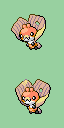
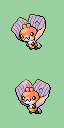
Couple reshinies, dex tweaks

diff --git a/src/pokemon.c b/src/pokemon.c
@@ -128,11 +128,11 @@ static const u16 sHoennToNationalOrder[HOENN_DEX_COUNT - 1] =
     HOENN_TO_NATIONAL(ARON),
     HOENN_TO_NATIONAL(LAIRON),
     HOENN_TO_NATIONAL(AGGRON),
-    HOENN_TO_NATIONAL(VOLTORB),
-    HOENN_TO_NATIONAL(ELECTRODE),
-    HOENN_TO_NATIONAL(PICHU),
-    HOENN_TO_NATIONAL(PIKACHU),
-    HOENN_TO_NATIONAL(RAICHU),
+    /* HOENN_TO_NATIONAL(VOLTORB), */
+    /* HOENN_TO_NATIONAL(ELECTRODE), */
+    /* HOENN_TO_NATIONAL(PICHU), */
+    /* HOENN_TO_NATIONAL(PIKACHU), */
+    /* HOENN_TO_NATIONAL(RAICHU), */
     HOENN_TO_NATIONAL(KOTORA),
     HOENN_TO_NATIONAL(RAITORA),
     HOENN_TO_NATIONAL(SEWADDLE_TOKUAN),
@@ -140,9 +140,9 @@ static const u16 sHoennToNationalOrder[HOENN_DEX_COUNT - 1] =
     HOENN_TO_NATIONAL(LEAVANNY_TOKUAN),
     HOENN_TO_NATIONAL(JOLTIK),
     HOENN_TO_NATIONAL(GALVANTULA),
-    HOENN_TO_NATIONAL(WEEDLE),
-    HOENN_TO_NATIONAL(KAKUNA),
-    HOENN_TO_NATIONAL(BEEDRILL),
+    /* HOENN_TO_NATIONAL(WEEDLE), */
+    /* HOENN_TO_NATIONAL(KAKUNA), */
+    /* HOENN_TO_NATIONAL(BEEDRILL), */
     HOENN_TO_NATIONAL(CATERPIE),
     HOENN_TO_NATIONAL(METAPOD),
     HOENN_TO_NATIONAL(BUTTERFREE),
@@ -198,10 +198,9 @@ static const u16 sHoennToNationalOrder[HOENN_DEX_COUNT - 1] =
     HOENN_TO_NATIONAL(FLETCHLING),
     HOENN_TO_NATIONAL(FLETCHINDER),
     HOENN_TO_NATIONAL(TALONFLAME),
-    HOENN_TO_NATIONAL(NIDORAN_F),
+    HOENN_TO_NATIONAL(NIDORAN_M),
     HOENN_TO_NATIONAL(NIDORINA),
     HOENN_TO_NATIONAL(NIDOQUEEN),
-    HOENN_TO_NATIONAL(NIDORAN_M),
     HOENN_TO_NATIONAL(NIDORINO),
     HOENN_TO_NATIONAL(NIDOKING),
     HOENN_TO_NATIONAL(ZIGZAGOON),

diff --git a/include/constants/pokedex.h b/include/constants/pokedex.h
@@ -1087,12 +1087,6 @@ enum {
     HOENN_DEX_FROAKIE,
     HOENN_DEX_FROGADIER,
     HOENN_DEX_GRENINJA,
-    HOENN_DEX_SPHEAL,
-    HOENN_DEX_VOLTORB,
-    HOENN_DEX_ELECTRODE,
-    HOENN_DEX_PICHU,
-    HOENN_DEX_PIKACHU,
-    HOENN_DEX_RAICHU,
     HOENN_DEX_KOTORA,
     HOENN_DEX_RAITORA,
     HOENN_DEX_SEWADDLE_TOKUAN,
@@ -1100,9 +1094,9 @@ enum {
     HOENN_DEX_LEAVANNY_TOKUAN,
     HOENN_DEX_JOLTIK,
     HOENN_DEX_GALVANTULA,
-    HOENN_DEX_WEEDLE,
-    HOENN_DEX_KAKUNA,
-    HOENN_DEX_BEEDRILL,
+    /* HOENN_DEX_WEEDLE, */
+    /* HOENN_DEX_KAKUNA, */
+    /* HOENN_DEX_BEEDRILL, */
     HOENN_DEX_CATERPIE,
     HOENN_DEX_METAPOD,
     HOENN_DEX_BUTTERFREE,
@@ -1122,6 +1116,7 @@ enum {
     HOENN_DEX_HONESTREE,
     HOENN_DEX_TEDDIURSA,
     HOENN_DEX_URSARING,
+    HOENN_DEX_URSALUNA,
     HOENN_DEX_SHROOMISH,
     HOENN_DEX_BRELOOM,
     HOENN_DEX_NINCADA,
@@ -1161,10 +1156,9 @@ enum {
     HOENN_DEX_FLETCHLING,
     HOENN_DEX_FLETCHINDER,
     HOENN_DEX_TALONFLAME,
-    HOENN_DEX_NIDORAN_F,
+    HOENN_DEX_NIDORAN_M,
     HOENN_DEX_NIDORINA,
     HOENN_DEX_NIDOQUEEN,
-    HOENN_DEX_NIDORAN_M,
     HOENN_DEX_NIDORINO,
     HOENN_DEX_NIDOKING,
     HOENN_DEX_ZIGZAGOON,
@@ -1393,6 +1387,7 @@ enum {
     HOENN_DEX_FROSLASS,
     // HOENN_DEX_FLUFFROST,
     // HOENN_DEX_YETIZZARD,
+    HOENN_DEX_SPHEAL,
     HOENN_DEX_SEALEO,
     HOENN_DEX_WALREIN,
     HOENN_DEX_SNOVER,

diff --git a/src/data/pokemon/species_info/gen_3_families.h b/src/data/pokemon/species_info/gen_3_families.h
@@ -10845,7 +10845,7 @@ const struct SpeciesInfo gSpeciesInfoGen3[] =
     #endif
         .bodyColor = BODY_COLOR_BLUE,
         .speciesName = _("Spheal"),
-        .unknownName = _("??????????"),
+        .unknownName = _("Perfect Ball"),
         .cryId = CRY_SPHEAL,
         .natDexNum = NATIONAL_DEX_SPHEAL,
         .categoryName = _("Clap"),
@@ -10925,7 +10925,7 @@ const struct SpeciesInfo gSpeciesInfoGen3[] =
     #endif
         .bodyColor = BODY_COLOR_BLUE,
         .speciesName = _("Sealeo"),
-        .unknownName = _("??????????"),
+        .unknownName = _("Big Seal"),
         .cryId = CRY_SEALEO,
         .natDexNum = NATIONAL_DEX_SEALEO,
         .categoryName = _("Ball Roll"),
@@ -11006,7 +11006,7 @@ const struct SpeciesInfo gSpeciesInfoGen3[] =
     #endif
         .bodyColor = BODY_COLOR_BLUE,
         .speciesName = _("Walrein"),
-        .unknownName = _("??????????"),
+        .unknownName = _("Seal King"),
         .cryId = CRY_WALREIN,
         .natDexNum = NATIONAL_DEX_WALREIN,
         .categoryName = _("Ice Break"),
